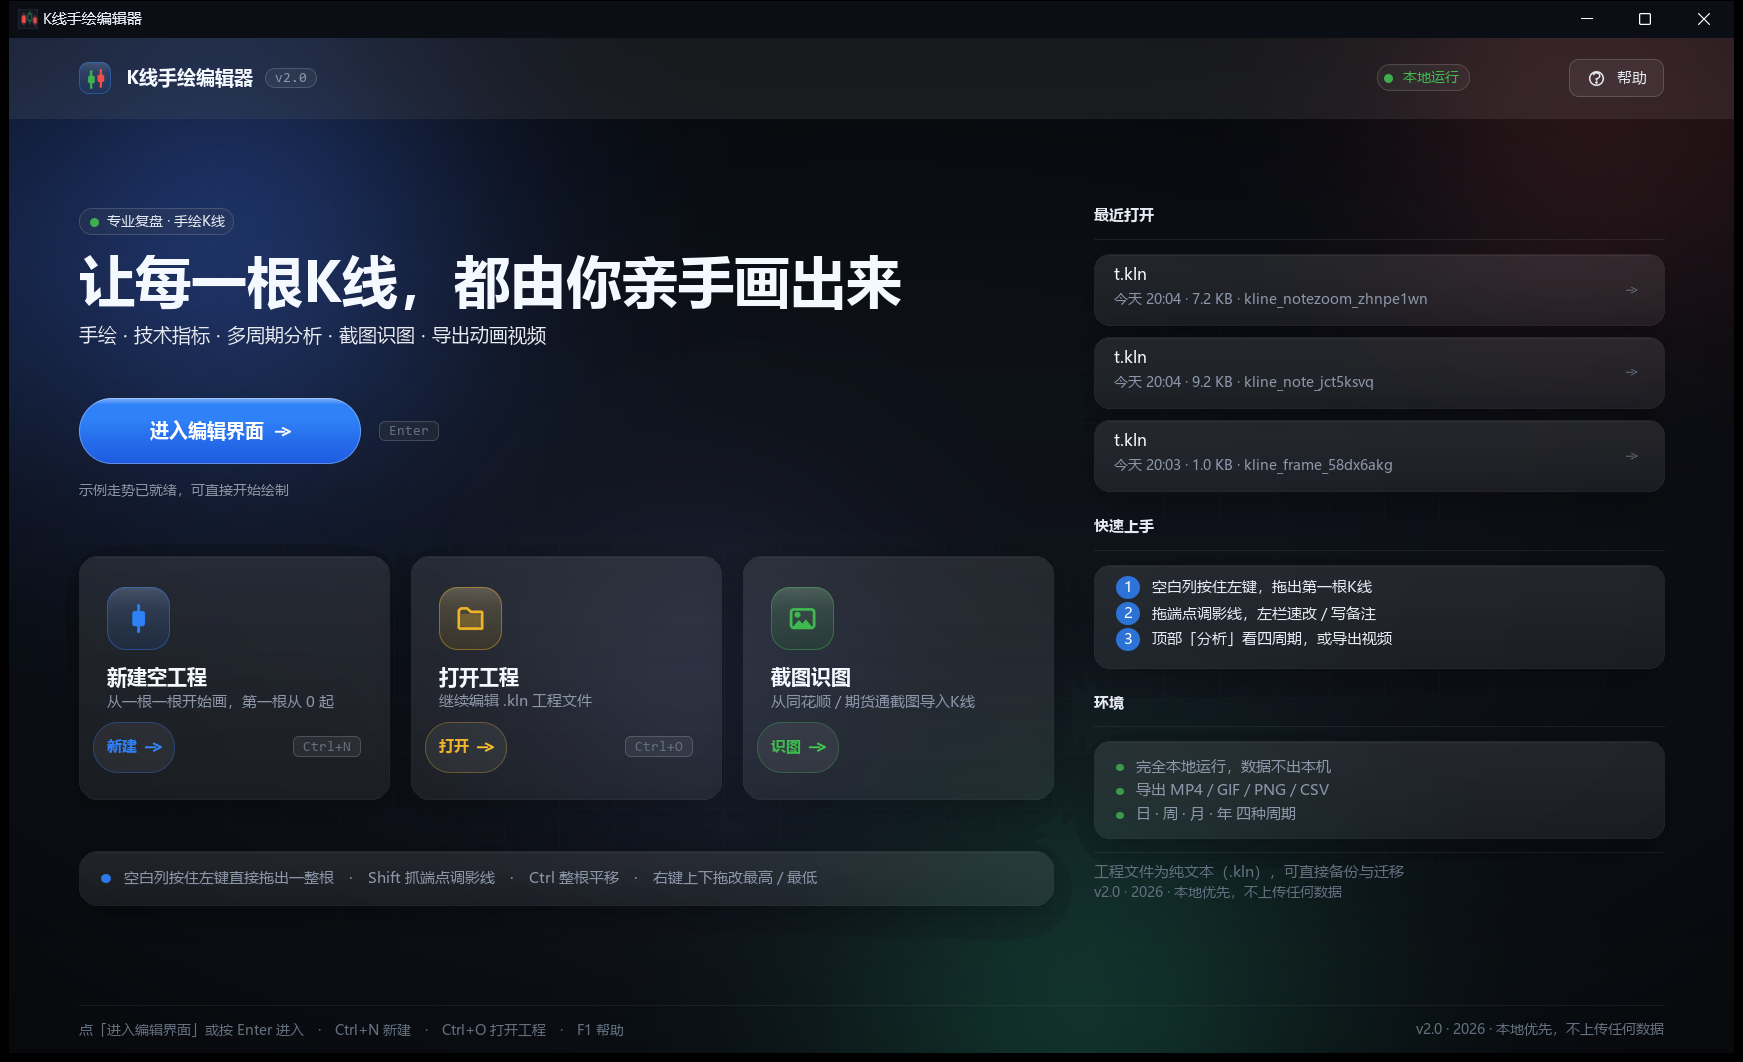
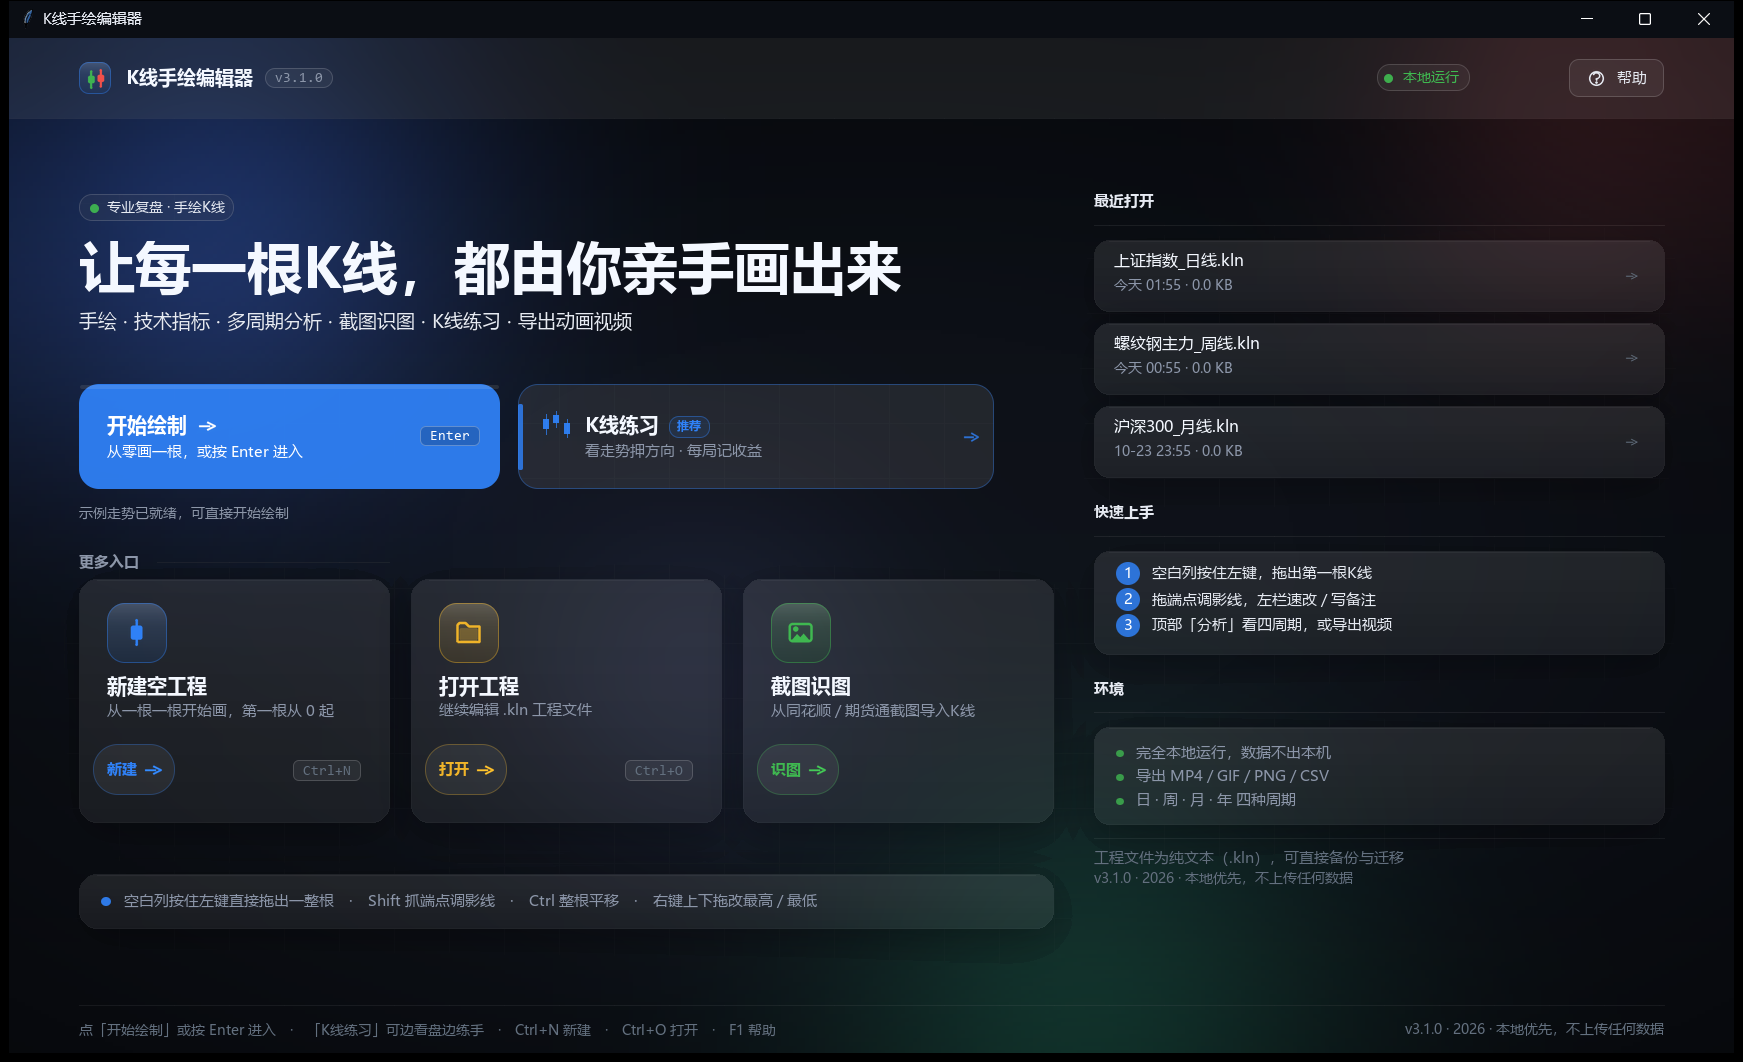
docs: 更新为 v3.1.0 的新截图，并补一张 K 线练习
- 6 张图全部按当前版本重抓（封面双入口 / 编辑器 / 练习 / 拖拽五步 / 分析窗 / 导出）
- 导出对话框的输出路径改为通用路径，封面「最近打开」用脚本内置演示数据
- README 中英在界面一览里加入 K 线练习配图

diff --git a/README.en.md b/README.en.md
@@ -68,6 +68,14 @@ It fits a few kinds of work:
 
 <div align="center">
 
+<img src="docs/screenshots/06-practice.png" width="880" alt="Candle practice">
+
+<sub>Candle practice · the second action on the cover: a random series shows only the first 40 bars, <code>Space</code>/<code>→</code> reveals the next, long/short with leverage, every run scored into a local leaderboard</sub>
+
+</div>
+
+<div align="center">
+
 <img src="docs/screenshots/03-draw.png" width="760" alt="Drawing a candle in five steps">
 
 <sub>Drawing one candle · press on empty space to plant the open, drag up and the price follows the cursor all the way from 100.09 to 106.82</sub>

diff --git a/README.md b/README.md
@@ -69,6 +69,14 @@
 
 <div align="center">
 
+<img src="docs/screenshots/06-practice.png" width="880" alt="K 线练习">
+
+<sub>K 线练习 · 封面第二个入口进来，随机走势只露前 40 根，<code>空格</code>/<code>→</code> 揭下一根，做多做空带杠杆，每局收益记进本机排行榜</sub>
+
+</div>
+
+<div align="center">
+
 <img src="docs/screenshots/03-draw.png" width="760" alt="拖拽绘制的五步演示">
 
 <sub>画一根的完整过程 · 空白处按下立刻落下起点，往上拖价格一路跟着涨，视野贴着光标走 —— 从 100.09 画到 106.82</sub>
